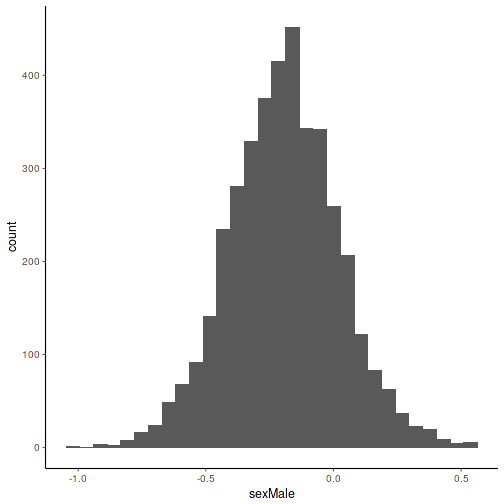
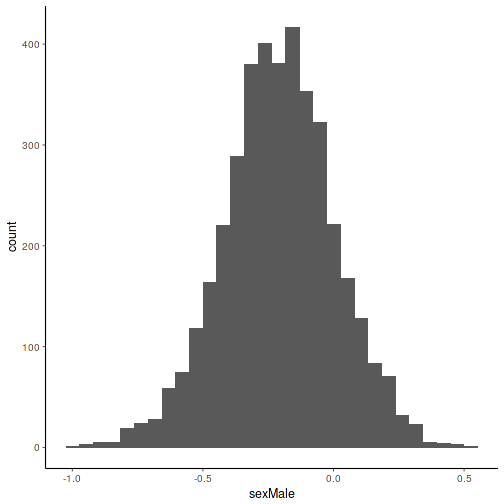
ok

diff --git a/rstan/lm.md b/rstan/lm.md
@@ -13,13 +13,13 @@ output:
 
 # Introduction
 
-**Target group** of this tutorial: people who are willing to learn about and experiment with Bayesian inference in a relatively light-weight manner.
+**Target group**: those who are willing to have their first encounters with Bayesian modeling and inference 
 
 **Learning goals** This tutorial gets you started in probabilistic programming. The aim is to learn how basic linear models can be implemented and extended using probabilistic programming tools, and understanding the underlying motivations and challenges.
 
-**Structure of the tutorial** This material provides starting points for experimenting with the tools and provides links to further online resources. The material is intended to be used in combination with lectures and hands-on instruction. 
+**Teaching method** This material provides pointers for experimentation and online resources. The material is intended to be used in combination with lectures and hands-on instruction. 
 
-## Probabilistic versus classical (frequentist) models
+## Probabilistic versus frequentist models
 
 Probabilistic programming provides alternatives to classical models. Often, the models are identical under particular modeling assumptions. The probabilistic framework provides expanded opportunities to modify the model structure, distributional assumptions, and prior information.
 
@@ -67,17 +67,12 @@ Let us fit [probabilistic ANOVA model](http://mc-stan.org/rstanarm/articles/aov.
 
 
 
-```r
-post <- stan_aov(diversity ~ sex + nationality + bmi_group, data = df,
-                 prior = R2(location = 0.5))
-```
-
 ```
 ## 
 ## SAMPLING FOR MODEL 'lm' NOW (CHAIN 1).
 ## 
-## Gradient evaluation took 1.5e-05 seconds
-## 1000 transitions using 10 leapfrog steps per transition would take 0.15 seconds.
+## Gradient evaluation took 1.7e-05 seconds
+## 1000 transitions using 10 leapfrog steps per transition would take 0.17 seconds.
 ## Adjust your expectations accordingly!
 ## 
 ## 
@@ -94,15 +89,15 @@ post <- stan_aov(diversity ~ sex + nationality + bmi_group, data = df,
 ## Iteration: 1800 / 2000 [ 90%]  (Sampling)
 ## Iteration: 2000 / 2000 [100%]  (Sampling)
 ## 
-##  Elapsed Time: 0.223012 seconds (Warm-up)
-##                0.155396 seconds (Sampling)
-##                0.378408 seconds (Total)
+##  Elapsed Time: 0.180378 seconds (Warm-up)
+##                0.146166 seconds (Sampling)
+##                0.326544 seconds (Total)
 ## 
 ## 
 ## SAMPLING FOR MODEL 'lm' NOW (CHAIN 2).
 ## 
-## Gradient evaluation took 8e-06 seconds
-## 1000 transitions using 10 leapfrog steps per transition would take 0.08 seconds.
+## Gradient evaluation took 7e-06 seconds
+## 1000 transitions using 10 leapfrog steps per transition would take 0.07 seconds.
 ## Adjust your expectations accordingly!
 ## 
 ## 
@@ -119,9 +114,9 @@ post <- stan_aov(diversity ~ sex + nationality + bmi_group, data = df,
 ## Iteration: 1800 / 2000 [ 90%]  (Sampling)
 ## Iteration: 2000 / 2000 [100%]  (Sampling)
 ## 
-##  Elapsed Time: 0.195728 seconds (Warm-up)
-##                0.172846 seconds (Sampling)
-##                0.368574 seconds (Total)
+##  Elapsed Time: 0.154002 seconds (Warm-up)
+##                0.14468 seconds (Sampling)
+##                0.298682 seconds (Total)
 ## 
 ## 
 ## SAMPLING FOR MODEL 'lm' NOW (CHAIN 3).
@@ -144,9 +139,9 @@ post <- stan_aov(diversity ~ sex + nationality + bmi_group, data = df,
 ## Iteration: 1800 / 2000 [ 90%]  (Sampling)
 ## Iteration: 2000 / 2000 [100%]  (Sampling)
 ## 
-##  Elapsed Time: 0.180139 seconds (Warm-up)
-##                0.164917 seconds (Sampling)
-##                0.345056 seconds (Total)
+##  Elapsed Time: 0.150698 seconds (Warm-up)
+##                0.169142 seconds (Sampling)
+##                0.31984 seconds (Total)
 ## 
 ## 
 ## SAMPLING FOR MODEL 'lm' NOW (CHAIN 4).
@@ -169,9 +164,9 @@ post <- stan_aov(diversity ~ sex + nationality + bmi_group, data = df,
 ## Iteration: 1800 / 2000 [ 90%]  (Sampling)
 ## Iteration: 2000 / 2000 [100%]  (Sampling)
 ## 
-##  Elapsed Time: 0.190757 seconds (Warm-up)
-##                0.202785 seconds (Sampling)
-##                0.393542 seconds (Total)
+##  Elapsed Time: 0.175245 seconds (Warm-up)
+##                0.146739 seconds (Sampling)
+##                0.321984 seconds (Total)
 ```
 
 
@@ -213,20 +208,20 @@ Investigate the posterior samples:
 
 
 ```
-##   (Intercept)    sexMale nationalityAFR bmi_groupoverweight bmi_groupobese
-## 1    3.237151 -0.2882968     -0.7264619          -0.3447235    -0.44081862
-## 2    3.266103 -0.3191635     -0.7447252          -0.3180243    -0.50947996
-## 3    2.461461  0.1311067     -0.5253654           0.3772697    -0.09554517
-## 4    2.494157  0.1889572     -0.5280116           0.4606210    -0.02320149
-## 5    3.666957 -0.5558136     -0.7362872          -0.5333490    -0.92029889
-## 6    3.616087 -0.6719317     -0.7595259          -0.4747462    -0.93062458
-##       sigma log-fit_ratio        R2
-## 1 0.4933064   -0.08155225 0.3261753
-## 2 0.5085921   -0.04417510 0.3353587
-## 3 0.5772832    0.05112323 0.2922975
-## 4 0.5682038    0.05607990 0.3211467
-## 5 0.6172637    0.12994433 0.3088833
-## 6 0.5784347    0.11280686 0.3719359
+##   (Intercept)     sexMale nationalityAFR bmi_groupoverweight
+## 1    2.683323 -0.17207208     -0.3241046         -0.01748698
+## 2    2.913006 -0.10173861     -0.6053699         -0.16664293
+## 3    3.344086 -0.29229176     -0.5178681         -0.44801768
+## 4    2.711193 -0.14067112     -0.2360834          0.10085647
+## 5    2.588782 -0.04265028     -0.3080736          0.30595890
+## 6    2.142272 -0.16689869     -0.2498702          0.71472661
+##   bmi_groupobese     sigma log-fit_ratio         R2
+## 1   -0.202375734 0.5101767   -0.18618142 0.11154696
+## 2   -0.370665075 0.5071771   -0.09969045 0.26143719
+## 3   -0.581318555 0.5323261   -0.09144159 0.19968903
+## 4   -0.174963108 0.7108176    0.11565422 0.05694196
+## 5    0.008740636 0.6686634    0.08366242 0.11033833
+## 6   -0.012429354 0.5303461    0.02682531 0.37295806
 ```
 
 
